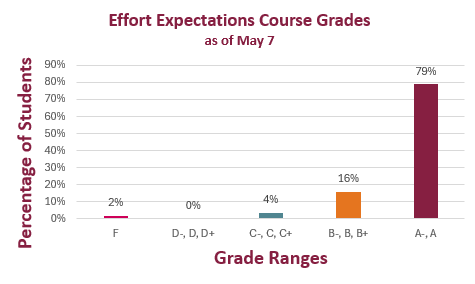
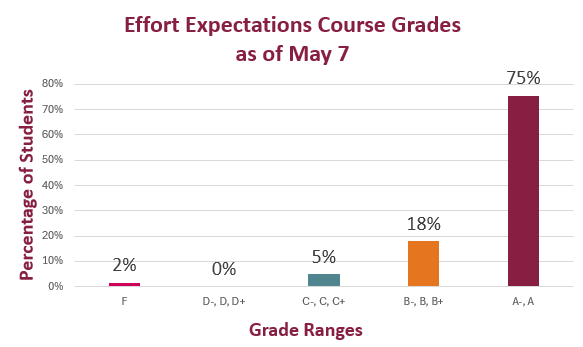
new image, using all grades

diff --git a/TechComm/semester/2025-01-Spring/2025-05-07-EffortGrades.html b/TechComm/semester/2025-01-Spring/2025-05-07-EffortGrades.html
@@ -57,7 +57,9 @@
     <div id="postBody" style="background-color: #fefefe;padding: 15px 6px 15px 6px;">
         <h2><span style="font-size: 18pt;">Grades Posted, Based on Effort Expectations</span></h2>
         <p>All submitted work has been marked and returned in Canvas. The Grace Period for all work closed on Friday, May 2. No further course work can be revised or submitted.</p>
-        <p>I have completed the Effort Expectations rubric for everyone in the course, based on the <a href="https://tracigardner.github.io/TechComm/semester/2025-01-Spring/ShortGuide2TW-Spring25.pdf#page=16" target="_blank">Effort Expectations for Each Grade Level</a>. Check your grade for the <a href="https://canvas.vt.edu/courses/205859/assignments/2275324" target="_blank">Effort Expectations-Based Course Grade Assignment</a> to see your current course grade.</p>
+
+        <p>I have completed the Effort Expectations rubric for most students in the course, based on the <a href="https://tracigardner.github.io/TechComm/semester/2025-01-Spring/ShortGuide2TW-Spring25.pdf#page=16" target="_blank">Effort Expectations for Each Grade Level</a>. Check your grade for the <a href="https://canvas.vt.edu/courses/205859/assignments/2275324" target="_blank">Effort Expectations-Based Course Grade Assignment</a> to see your current course grade.
+
         <h2><span style="font-size: 18pt;">Deciding Whether to Take the Final Exam</span></h2>
         <p>You have two options:</p>
         <ul class="skipline">
@@ -92,17 +94,17 @@
         </ul>
         <h3 style="border-bottom: 1px solid #861f41;">Course Grade Estimate Distribution</h3>
         <p>Here is a bar graph showing the current distribution of the course grades.</p>
-        <p><img src="effort-grades.2025-05-07.png" alt="" />tracigardner.github.io/TechComm/semester/2025-01-Spring/</p>
+        <p><img src="https://tracigardner.github.io/TechComm/semester/2025-01-Spring/effort-grades.2025-05-07.png" alt="Bar Graph showing Spring 2025 Course Grade Distribution, as of May" /></p>
         <details style="margin-bottom: 12px;">
             <summary style="display:list-item"><em>Long Description of the Text from Bar Graph</em></summary>
             <div style="margin-left: 36px;border: 6px double #861f41;padding: 9px;background-color: whitesmoke;">
-                <p>Chart Title: Fall 2023 Course Grade Distribution, as of December 5</p>
+                <p>Chart Title: Spring 2025 Course Grade Distribution, as of May 7</p>
                 <ul>
-                    <li>A- or A: 79%</li>
-                    <li>B-, B, B+: 16%</li>
-                    <li>C-, C, C+: 4%</li>
-                    <li>D-, D, D+: 0%</li>
-                    <li>F: 2%</li>
+                    <li>79% earned A- or A</li>
+                    <li>16% earned B-, B, B+</li>
+                    <li>&nbsp;&nbsp;4% earned C-, C, C+</li>
+                    <li>&nbsp;&nbsp;0% earned D-, D, D+</li>
+                    <li>&nbsp;&nbsp;2% earned F</li>
                 </ul>
             </div>
         </details>
